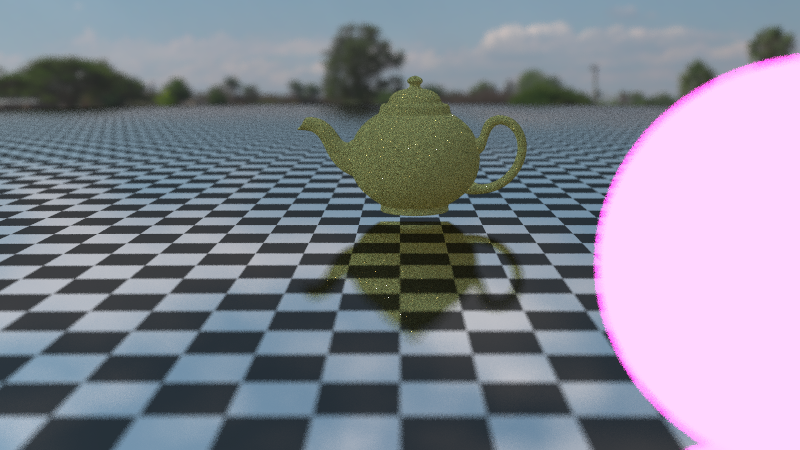
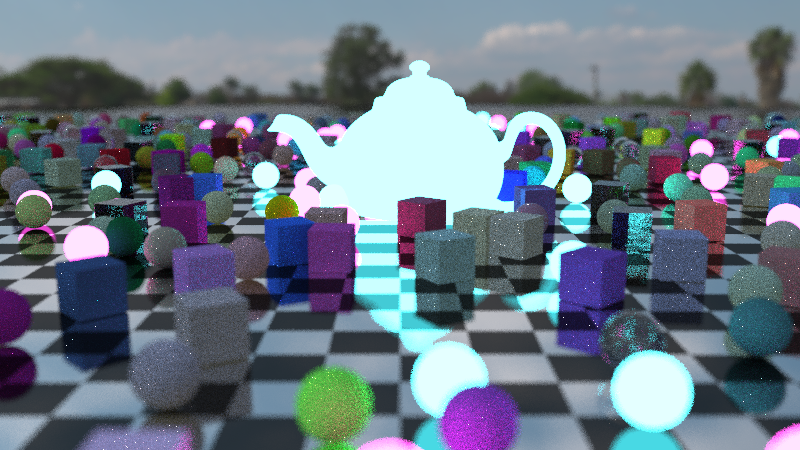
smooth_shading

diff --git a/main.cpp b/main.cpp
@@ -42,13 +42,6 @@ int main() {
 	//fuzz 0.00 for perfect reflection
 	auto reflective_checker_mat = make_shared<metal>(checker, 0.02);
 	world.add(make_shared<sphere>(point3(0.0, -1000.0, 0.0), 1000.0, reflective_checker_mat));
-	
-	//0. .obj MODEL LOADER TEST
-	auto debug_mat = make_shared<metal>(color(1.0, 0.85, 0.3), 0.0);
-	auto teapot_model2 = make_shared<model>("assets/models/teapot.obj", debug_mat, 0.3);
-	auto roted_teapot_x = make_shared<rotate_x>(teapot_model2, -90.0);
-	auto roted_teapot_y = make_shared<rotate_y>(roted_teapot_x, 30.0);
-	world.add(make_shared<translate>(roted_teapot_y, point3(0.0, 0.9, 0.0)));
 
 	//1. GLASS SPHERE into scene
 	auto material_glass = make_shared<dielectric>(1.5);
@@ -69,10 +62,9 @@ int main() {
 
 	//4. TRIANGLE
 	auto triangle_material = make_shared<lambertian>(color(0.8, 0.3, 0.3));
-	point3 v0(-1.0, 0.0, 0.0);
-	point3 v1(1.0, 0.0, 0.0);
-	point3 v2(0.0, 2.0, 0.0);
-	auto triangle1 = make_shared<triangle>(v0, v1, v2, triangle_material);
+	point3 v0(0, 0, 0), v1(1, 0, 0), v2(0, 1, 0);
+	vec3 n = unit_vector(cross(v1 - v0, v2 - v0));
+	auto triangle1 = make_shared<triangle>(v0, v1, v2, n, n, n, triangle_material);
 	auto triangle_rotated = make_shared<rotate_y>(triangle1, 45.0);
 	auto triangle_final_pos = make_shared<translate>(triangle_rotated, point3(-2.0, 0.0, 1.0));
 	//world.add(triangle_final_pos);
@@ -81,69 +73,75 @@ int main() {
 	//emmissive material
 	color neon_sphere = (random_double() < 0.5) ? color(0.1, 0.9, 1.0) : color(1.0, 0.1, 0.8);
 	auto emmissive_material = make_shared<diffuse_light>(neon_sphere * 7.0); //intensity 7.0
-	world.add(make_shared<sphere>(point3(6.0, 1.0, -2.0), 1.0, emmissive_material));
+	/*world.add(make_shared<sphere>(point3(6.0, 1.0, -2.0), 1.0, emmissive_material));*/
 
-	/*auto material_metal = make_shared<metal>(color(0.2, 0.2, 0.2), 0.2);*/
+	//6. .obj MODEL LOADER TEST
+	auto teapot_model2 = make_shared<model>("assets/models/teapot.obj", emmissive_material, 0.3);
+	auto roted_teapot_x = make_shared<rotate_x>(teapot_model2, -90.0);
+	auto roted_teapot_y = make_shared<rotate_y>(roted_teapot_x, 30.0);
+	world.add(make_shared<translate>(roted_teapot_y, point3(0.0, 0.8, 0.0)));
+
+	auto material_metal = make_shared<metal>(color(0.2, 0.2, 0.2), 0.2);
 	//common materials for small cubes
-	/*auto mat_diffuse = make_shared<lambertian>(color(0.5, 0.5, 0.5));*/
-	/*auto mat_wood = make_shared<lambertian>(make_shared<image_texture>("assets/textures/fine-wood.jpg"));*/
+	auto mat_diffuse = make_shared<lambertian>(color(0.5, 0.5, 0.5));
+	auto mat_wood = make_shared<lambertian>(make_shared<image_texture>("assets/textures/fine-wood.jpg"));
 
-	//6. SINGLE MASTER CUBE AND SPHERE FOR INSTANCING
-	/*auto master_cube = make_shared<cube>(point3(-0.2, -0.2, -0.2), point3(0.2, 0.2, 0.2), nullptr);
-	auto master_sphere = make_shared<sphere>(point3(0.0, 0.0, 0.0), 0.2, nullptr);*/
+	//7. SINGLE MASTER CUBE AND SPHERE FOR INSTANCING
+	auto master_cube = make_shared<cube>(point3(-0.2, -0.2, -0.2), point3(0.2, 0.2, 0.2), nullptr);
+	auto master_sphere = make_shared<sphere>(point3(0.0, 0.0, 0.0), 0.2, nullptr);
 
 	/*for loop to randomize location of small cubes and spheres*/
-	//for (int a = -15; a < 15; a++) {
-	//	for (int b = -15; b < 15; b++) { //create the grid a(-15, 15) / b(-15, 15)
-	//		point3 center(a + 0.9 * random_double(), 0.2, b + 0.9 * random_double()); //point3(x,(y = const),z)
+	for (int a = -15; a < 15; a++) {
+		for (int b = -15; b < 15; b++) { //create the grid a(-15, 15) / b(-15, 15)
+			point3 center(a + 0.9 * random_double(), 0.2, b + 0.9 * random_double()); //point3(x,(y = const),z)
 
-	//		if ((center - point3(4.0, 0.2, 0.0)).length() > 0.9) { //condition to create cube
-	//			shared_ptr<material> obj_mat;
-	//			double choose_mat = random_double();
+			if ((center - point3(4.0, 0.2, 0.0)).length() > 0.9) { //condition to create cube
+				shared_ptr<material> obj_mat;
+				double choose_mat = random_double();
 
-	//			//1. material selection
-	//			if (choose_mat < 0.12) {
-	//				//neons (emmissive) 12% chance - highly saturated colors
-	//				color neon_color = (random_double() < 0.5) ? color(0.1, 0.9, 1.0) : color(1.0, 0.1, 0.8);
-	//				obj_mat = make_shared<diffuse_light>(neon_color * 8.0); //intensity 10.0
-	//			
-	//				auto instance = make_shared<material_instance>(master_sphere, obj_mat);
-	//				world.add(make_shared<translate>(instance, center));
+				//1. material selection
+				if (choose_mat < 0.12) {
+					//neons (emmissive) 12% chance - highly saturated colors
+					color neon_color = (random_double() < 0.5) ? color(0.1, 0.9, 1.0) : color(1.0, 0.1, 0.8);
+					obj_mat = make_shared<diffuse_light>(neon_color * 8.0); //intensity 10.0
+				
+					auto instance = make_shared<material_instance>(master_sphere, obj_mat);
+					world.add(make_shared<translate>(instance, center));
 
-	//				continue; //skip rest of loop to avoid adding another object
-	//			} else if (choose_mat < 0.6) {
-	//				//diffuse (matte)
-	//				auto albedo = color::random() * color::random();
-	//				obj_mat = make_shared<lambertian>(albedo);
-	//			} else if(choose_mat < 0.85) {
-	//				//metal
-	//				auto albedo = color::random(0.5, 1.0);
-	//				auto fuzz = random_double(0.0, 0.3);
-	//				obj_mat = make_shared<metal>(albedo, fuzz);
-	//			}
-	//			else {
-	//				//glass
-	//				obj_mat = make_shared<dielectric>(1.5);
-	//			}
+					continue; //skip rest of loop to avoid adding another object
+				} else if (choose_mat < 0.6) {
+					//diffuse (matte)
+					auto albedo = color::random() * color::random();
+					obj_mat = make_shared<lambertian>(albedo);
+				} else if(choose_mat < 0.85) {
+					//metal
+					auto albedo = color::random(0.5, 1.0);
+					auto fuzz = random_double(0.0, 0.3);
+					obj_mat = make_shared<metal>(albedo, fuzz);
+				}
+				else {
+					//glass
+					obj_mat = make_shared<dielectric>(1.5);
+				}
 
-	//			//2. object selection (cube or sphere 50/50)
-	//			shared_ptr<hittable> geometry;
-	//			if (random_double() < 0.5) {
-	//				//sphere instance
-	//				geometry = master_sphere;
-	//			} else {
-	//				//cube instance with random rotation_y
-	//				geometry = make_shared<rotate_y>(master_cube, random_double(0.0, 90.0));
-	//			}
+				//2. object selection (cube or sphere 50/50)
+				shared_ptr<hittable> geometry;
+				if (random_double() < 0.5) {
+					//sphere instance
+					geometry = master_sphere;
+				} else {
+					//cube instance with random rotation_y
+					geometry = make_shared<rotate_y>(master_cube, random_double(0.0, 90.0));
+				}
 
-	//			//applying material to the instance through material_instance class
-	//			auto instance = make_shared<material_instance>(geometry, obj_mat);
+				//applying material to the instance through material_instance class
+				auto instance = make_shared<material_instance>(geometry, obj_mat);
 
-	//			//3. final position translation
-	//			world.add(make_shared<translate>(instance, center));
-	//		}
-	//	}
-	//}
+				//3. final position translation
+				world.add(make_shared<translate>(instance, center));
+			}
+		}
+	}
 
 	//create camera
 	camera cam;

diff --git a/triangle.hpp b/triangle.hpp
@@ -4,10 +4,13 @@
 
 class triangle : public hittable {
 public:
-	triangle(const point3& a, const point3& b, const point3& c, shared_ptr<material>m)
+	triangle(const point3& a, const point3& b, const point3& c, const vec3& _n0, const vec3& _n1, const vec3& _n2, shared_ptr<material>m)
 		: v0(a)
 		, v1(b)
 		, v2(c)
+		, n0(_n0)
+		, n1(_n1)
+		, n2(_n2)
 		, mat_ptr(m)
 	{}
 
@@ -40,32 +43,38 @@ public:
 		//find the intersection point and check if it's inside the triangle
 		point3 p = r.at(t);
 
-		//point P tests with respect to edges(outside-in test)
+		//point p tests with respect to edges(outside-in test)
 		//checking if P-point is located on the internal vector side for each edge
 
-		//edge V0 -> V1
+		//calculate vectors for edges
 		vec3 edge_v0v1 = v1 - v0;
-		vec3 C0 = cross(edge_v0v1, p - v0); //parrallel vector to the plane
-		if (dot(normal, C0) < 0) {
-			return false;
-		}
-		//edge V1 -> V2
 		vec3 edge_v1v2 = v2 - v1;
-		vec3 C1 = cross(edge_v1v2, p - v1);
-		if (dot(normal, C1) < 0) {
-			return false;
-		}
-		//edge V2 -> V0
 		vec3 edge_v2v0 = v0 - v2;
-		vec3 C2 = cross(edge_v2v0, p - v2);
-		if (dot(normal, C2) < 0) {
+
+		//calculate barycentric coordinates for normal interpolation (triangles areas method)
+		vec3 C0 = cross(v1 - v0, p - v0);
+		vec3 C1 = cross(v2 - v1, p - v1);
+		vec3 C2 = cross(v0 - v2, p - v2);
+
+		//inside-outside test
+		if (dot(normal, C0) < 0 || dot(normal, C1) < 0 || dot(normal, C2) < 0) {
 			return false;
 		}
+
+		double area_total_sq = dot(normal, normal); //normal.length()^2
+		//u,v,w are the ratios of the small triangle areas to the whole
+		double u = dot(normal, C2) / area_total_sq; //weight for vertex v1
+		double v = dot(normal, C0) / area_total_sq; //weight for vertex v2
+		double w = 1.0 - u - v; //weight for vertex v0
+
+		//interpolated normal
+		vec3 smooth_normal = unit_vector(w * n0 + u * n1 + v * n2);
+
 		//if we reach this point, the ray hits the triangle
 		rec.t = t;
 		rec.p = p;
 		rec.mat = mat_ptr;
-		rec.set_face_normal(r, unit_normal);
+		rec.set_face_normal(r, smooth_normal);
 
 		return true;
 	}
@@ -91,5 +100,6 @@ public:
 
 private:
 	point3 v0, v1, v2;
+	vec3 n0, n1, n2; //new areas
 	shared_ptr<material> mat_ptr;
 };

diff --git a/model.hpp b/model.hpp
@@ -43,6 +43,15 @@ public:
 
 		hittable_list triangles;
 
+		//get_v (lambda)
+		auto get_v = [&](tinyobj::index_t idx) {
+			return point3(
+				(attrib.vertices[3 * idx.vertex_index + 0] - center_offset.x()) * scale,
+				(attrib.vertices[3 * idx.vertex_index + 1] - center_offset.y()) * scale,
+				(attrib.vertices[3 * idx.vertex_index + 2] - center_offset.z()) * scale
+			);
+			};
+
 		//create triangles from loaded model using offset and scale
 		for (const auto& shape : shapes) {
 			size_t index_offset = 0;
@@ -52,15 +61,32 @@ public:
 				tinyobj::index_t idx1 = shape.mesh.indices[index_offset + 1];
 				tinyobj::index_t idx2 = shape.mesh.indices[index_offset + 2];
 
-				auto get_v = [&](tinyobj::index_t idx) {
-					return point3(
-						(attrib.vertices[3 * idx.vertex_index + 0] - center_offset.x()) * scale,
-						(attrib.vertices[3 * idx.vertex_index + 1] - center_offset.y()) * scale,
-						(attrib.vertices[3 * idx.vertex_index + 2] - center_offset.z()) * scale
-					);
-				};
+				//get vertex function with offset and scale applied
+				point3 v0 = get_v(idx0);
+				point3 v1 = get_v(idx1);
+				point3 v2 = get_v(idx2);
 
-				triangles.add(make_shared<triangle>(get_v(idx0), get_v(idx1), get_v(idx2), mat));
+				//get normals
+				vec3 n0, n1, n2;
+				if (idx0.normal_index >= 0) {
+					n0 = vec3(attrib.normals[3 * idx0.normal_index + 0],
+						attrib.normals[3 * idx0.normal_index + 1],
+						attrib.normals[3 * idx0.normal_index + 2]);
+					n1 = vec3(attrib.normals[3 * idx1.normal_index + 0],
+						attrib.normals[3 * idx1.normal_index + 1],
+						attrib.normals[3 * idx1.normal_index + 2]);
+					n2 = vec3(attrib.normals[3 * idx2.normal_index + 0],
+						attrib.normals[3 * idx2.normal_index + 1],
+						attrib.normals[3 * idx2.normal_index + 2]);
+				} else {
+					//if no normals, calculate face normal for flat shading
+					vec3 flat_normal = unit_vector(cross(v1 - v0, v2 - v0));
+					n0 = n1 = n2 = flat_normal;
+				}
+
+				//all 7 parameters triangle constructor
+				triangles.add(make_shared<triangle>(v0, v1, v2, n0, n1, n2, mat));
+
 				index_offset += 3;
 			}
 		}
